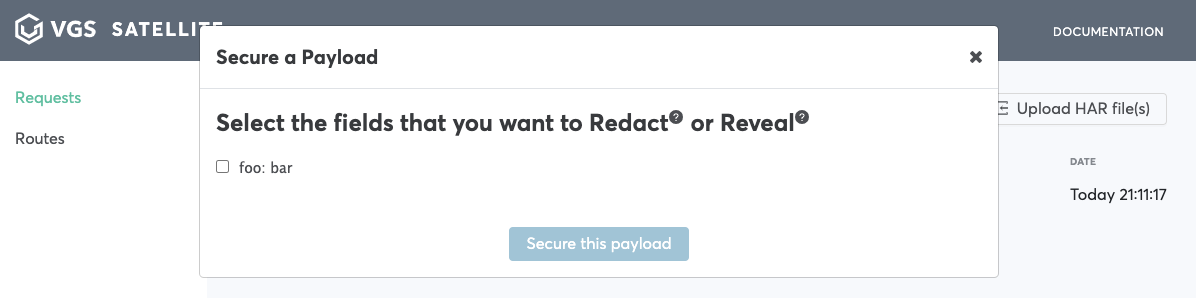
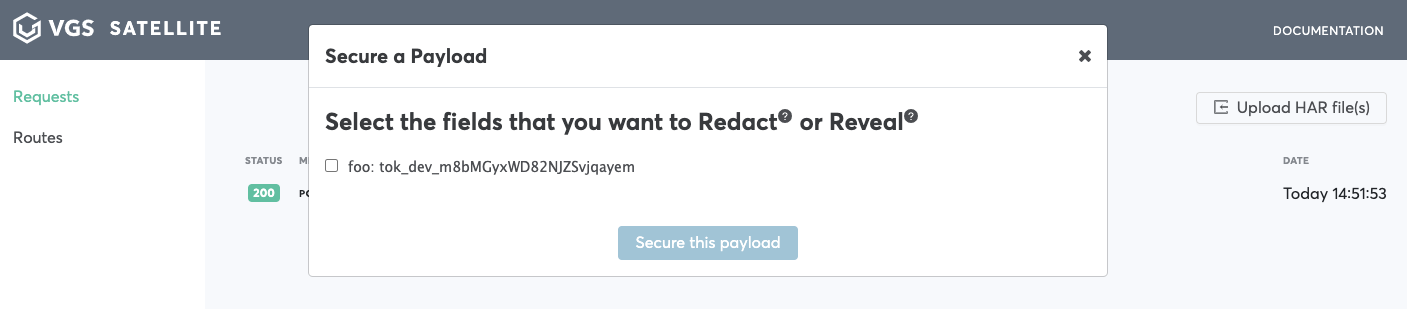
README update. (#57)
Added video manual. Few FE fixes

diff --git a/src/data/routes.ts b/src/data/routes.ts
@@ -25,7 +25,7 @@ export const getRouteTemplate = (isReverse: boolean): IRoute => ({
   protocol: 'http',
   source_endpoint: '*',
   transport: 'HTTP',
-  entries: [getEntryTemplate(isReverse)],
+  entries: isReverse ? [] : [getEntryTemplate(false)],
   tags: { name : isReverse
     ? generateRouteName(config.echoServerHostname)
     : generateRouteName(),

diff --git a/src/components/molecules/Yaml/Yaml.tsx b/src/components/molecules/Yaml/Yaml.tsx
@@ -57,7 +57,7 @@ const Yaml: React.FC<IYamlProps> = (props) => {
   };
   
   const saveRoute = () => {
-    props.handleSaveRoute(props.routes[activeTab]);
+    props.handleSaveRoute(props.routes[props.proxyMode ? routeType : activeTab]);
   };
 
   const tabs = [

diff --git a/README.md b/README.md
@@ -3,18 +3,25 @@
 <p align="center"><b>@vgs/vgs-satellite</b><br/>VGS Offline integration/debugging application.</p>
 <p align="center">
 <a href="https://circleci.com/gh/verygoodsecurity/vgs-satellite/tree/master"><img src="https://circleci.com/gh/verygoodsecurity/vgs-satellite/tree/master.svg?style=svg" alt="circleci-test"></a>
-<a href="https://badge.fury.io/js/%40vgs%2Fvgs-satellite"><img src="https://badge.fury.io/js/%40vgs%2Fvgs-satellite.svg" alt="npm-version"></a>
-<a href="https://badge.fury.io/js/%40vgs%2Fvgs-satellite"><img src="https://img.shields.io/npm/dw/@vgs/vgs-satellite?style=flat-square" alt="npm-downloads"></a>
-<a href="https://opensource.org/licenses/ISC"><img src="https://img.shields.io/npm/l/@vgs/vgs-satellite?style=flat-square" alt="NPM"></a>
 </p>
 
 
 <!-- toc -->
+* [Prerequisites](#prerequisites)
 * [Description](#description)
-* [Running from github](#running-from-github)
-* [How to run](#how-to-use)
+* [How to start application](#how-to-start-application)
+    * [Configurations](#configurations)
+* [How to use](#how-to-use)
+    * [How to generate route](#how-to-generate-route)
+    * [How to manage routes](#how-to-manage-routes)
 * [Reverse proxy mode](#reverse-proxy-mode)
+* [mitmproxy](#mitmproxy)
 <!-- tocstop -->
+
+## Prerequisites
+
+- python =>3.8.0 (python --version)
+- npm =>6.14.0 (npm --version)
 
 ## Description
 
@@ -32,42 +39,114 @@ VGS Satellite provides:
 This  application gives you an ability to run requests with your service and transform them into suitable VGS route configuration
 without any need to sign up.
 
-## Running from github
+_Note: VGS Satellite is in beta right now and is being run in electron development mode. Going forward VGS Satellite would be a bundled up executable._
+
+## How to start application
 
 1. Clone sources
     ```bash
         git clone git@github.com:verygoodsecurity/vgs-satellite.git && cd vgs-satellite
     ```
+   
+1. Install dependencies
 
-1. Create `~/.mitmproxy/config.yaml` configuration file. 
-    ```bash
-        echo "listen_port: 9099\nweb_port: 8089\nweb_host: localhost\nweb_open_browser: false" > ~/.mitmproxy/config.yaml
-    ```
+   ```bash
+       npm ci
+   ```
    
     
 1. Run application...
-
-    a) ...in browser 
+ 
     ```bash
-        npm i
-        npm start
-    ```
-    b) ...in electron 
-    ```bash
-       npm i
        npm run start:app
     ```
+   
+   _Note: This would run application in electron locally. If you need to run in browser use `npm start`_
 
 ## How to use 
 
-_Note: this manual of how to use vgs-satellite assuming you are running from docker-compose_
+When started VGS Satellite runs 2 proxies:
+    - reverse proxy (default port: 9098)
+    ![reverse-proxy](https://upload.wikimedia.org/wikipedia/commons/thumb/6/67/Reverse_proxy_h2g2bob.svg/1920px-Reverse_proxy_h2g2bob.svg.png)
+    - forward proxy (default port: 9099)
+    ![forward-proxy](https://upload.wikimedia.org/wikipedia/commons/thumb/2/27/Open_proxy_h2g2bob.svg/1920px-Open_proxy_h2g2bob.svg.png)
 
-1. Run application. 
-   We assume that content of `.env` wasn't changed
-1. Open [http://localhost:1234](http://localhost:1234) or wait for electron application to start
-1. Run example requests:
+_Note: Reverse proxy is started with dummy upstream, and can be used only when at least 1 inbound route is created_ 
+
+### Configurations
+
+Satellite support following parameters:
+
+- `web_server_port` - ports that is used by backend webservice (default: 8089)
+- `reverse_proxy_port` - reverse proxy port (default: 9098)
+- `forward_proxy_port` - forward proxy port (default: 9099)
+
+You can override default values using configuration file. Default location for config file is `~/.vgs-satellite/config.yml`
+You can find config file example at `config.yml-example`
+
+You can also override them using command line arguments:
+
+- `--web-server-port` - ports that is used by backend webservice
+- `--reverse-proxy-port` - reverse proxy port
+- `--forward-proxy-port` - forward proxy port
+- `--config-path` - path for config file. 
+
+Overriding priority from highest priority to lowest is:
+
+Command argument -> Configuration file -> Default value
+
+
+### How to generate inbound route
+
+Lets use inbound route for redact scenario
+
+1. Navigate to routes page and click `Add route` -> `Inbound route`
+
+   ![add-route](manual/in-1-route-create.png)
+   
+1. Add upstream, for example `interactive-form.herokuapp.com` and click `Save`
+
+   ![route-upstream](manual/in-2-route-upstream.png)
+   
+1. Visit `localhost:9098` and make request you want to secure or make request directly to `localhost:9098`
+
+  _Note: If you are using `interactive-form.herokuapp.com` as an upstream, click `Fill`, then `Place Order`_ 
+
+  ![interactive-demo](manual/in-3-interactive-demo.png)
+  
+1. Find your request in requests list and click it
+
+  _Note: For our example we take `/payment` request_
+  
+  ![secure-request](manual/in-4-request-list.png)
+  
+  ![request-details](manual/in-5-request.png)
+  
+1. Pick field that needs to be secured click `Secure this payload` -> `View route configuration` -> `Save inbound route`
+
+  ![secure-payload](manual/in-6-secure.png)
+  
+1. Visit routes page and delete route created on step #2
+  
+1. Choose your request in requests list and click `Replay`
+
+   Navigate to request one more time and click `Body`. 
+   
+  ![diff-checker](manual/in-7-diff.png)
+  
+  Your payload has been secured!
+  
+
+
+### How to generate outbound route
+
+Lets use outbound route to reveal previously redacted payload scenario
+
+This scenario will help you generate an outbound route using your request, made to a forward proxy
+
+1. Run some request with alias, proxying it through forward proxy. For example:
     ```bash
-    curl http://httpbin.org/post -k -x localhost:9099 -H "Content-type: application/json" -d '{"foo": "bar"}'
+    curl http://httpbin.org/post -k -x localhost:9099 -H "Content-type: application/json" -d '{"foo": "tok_dev_m8bMGyxWD82NJZSvjqayem"}'
     ```
 1. Wait for your requests to appear
    
@@ -81,17 +160,13 @@ _Note: this manual of how to use vgs-satellite assuming you are running from doc
 
    ![secure-payload](manual/3-secure-payload.png)
    
-1. Check field you would like to secure.
+1. Check field you would like to reveal, choose `Reveal` in `Operation` dropdown.
 
    ![secure-check](manual/4-secure-check.png)
 
     For additional setting please reference the [nomenclature](https://www.verygoodsecurity.com/docs/terminology/nomenclature)
 
-1. Click `Secure this payload`, then `View route configuration`
-
-   ![route-config](manual/5-route-config.png)
-   
-1. Switch to `Outbound` and click `Save route`
+1. Click `Secure this payload` -> `View route configuration`-> `Save outbound route`
     
     Your route is now available on `Routes` page. You can edit/delete it or import another one from YAML.
     
@@ -104,25 +179,17 @@ _Note: this manual of how to use vgs-satellite assuming you are running from doc
 1. Click on the replayed request and click `Body` tab. You will see that your payload was redacted. 
 
     ![diff-viewer](manual/8-diffviewer.png)
-    
-1. Navigate to `Routes` page and click `Manage` on route you saved. Switch `Redact` to `Reveal`.
 
-    ![manage-route](manual/9-manage-route.png)
+## Python demo <> Satellite
 
-    Click `Save`
+### Inbound route
+For inbound route integration example please see [this](https://drive.google.com/file/d/17LobNQBHZ_tA8oU6cKUn9e_GBJn-j2jh/preview)
 
-    ![save-route](manual/10-save-route.png)
+### Outbound route
+For outbound route integration example please see [this](https://drive.google.com/file/d/1aDHWvxjs-TEcADIOei6r86jC3uLKfNHW/preview) 
 
-1. Send request substituting raw payload with aliased one from #11
+## Mitmproxy
 
-    ```bash
-    curl http://httpbin.org/post -k -x localhost:9099 -H "Content-type: application/json" -d '{"foo": "tok_dev_Q5NGpoZvMiCikwcmKhJtcK"}'
-    ```
-   
-   You will see previously sent raw payload.
-   
-   
-## Reverse proxy mode
-
-VGS Satellite can be run in reverse proxy mode. For this add `mode: reverse:upstream.local` to the end of ~/.mitmproxy/config.yaml.
-You would need to run request directly to `localhost:9099` without -x(proxy option) in #3 and #13 
+VGS Satellite's core depends on [mitmproxy](https://github.com/mitmproxy/mitmproxy/). 
+**mitmproxy** or man-in-the-middle proxy is an interactive intercepting proxy with ton of build-in functionalities and protocol support.
+VGS Satellite is provided as a Open Source product under Apache License v2.0 
